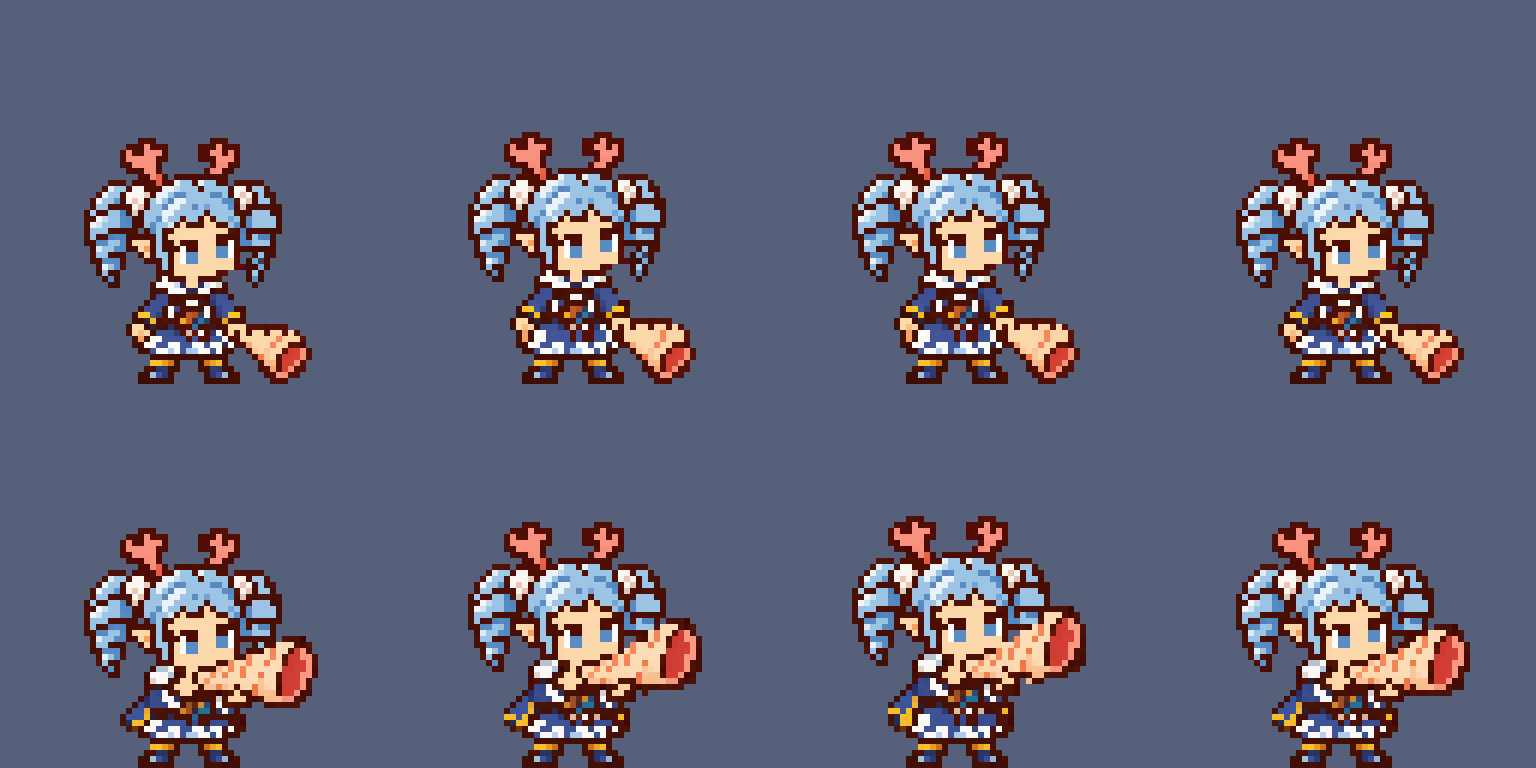
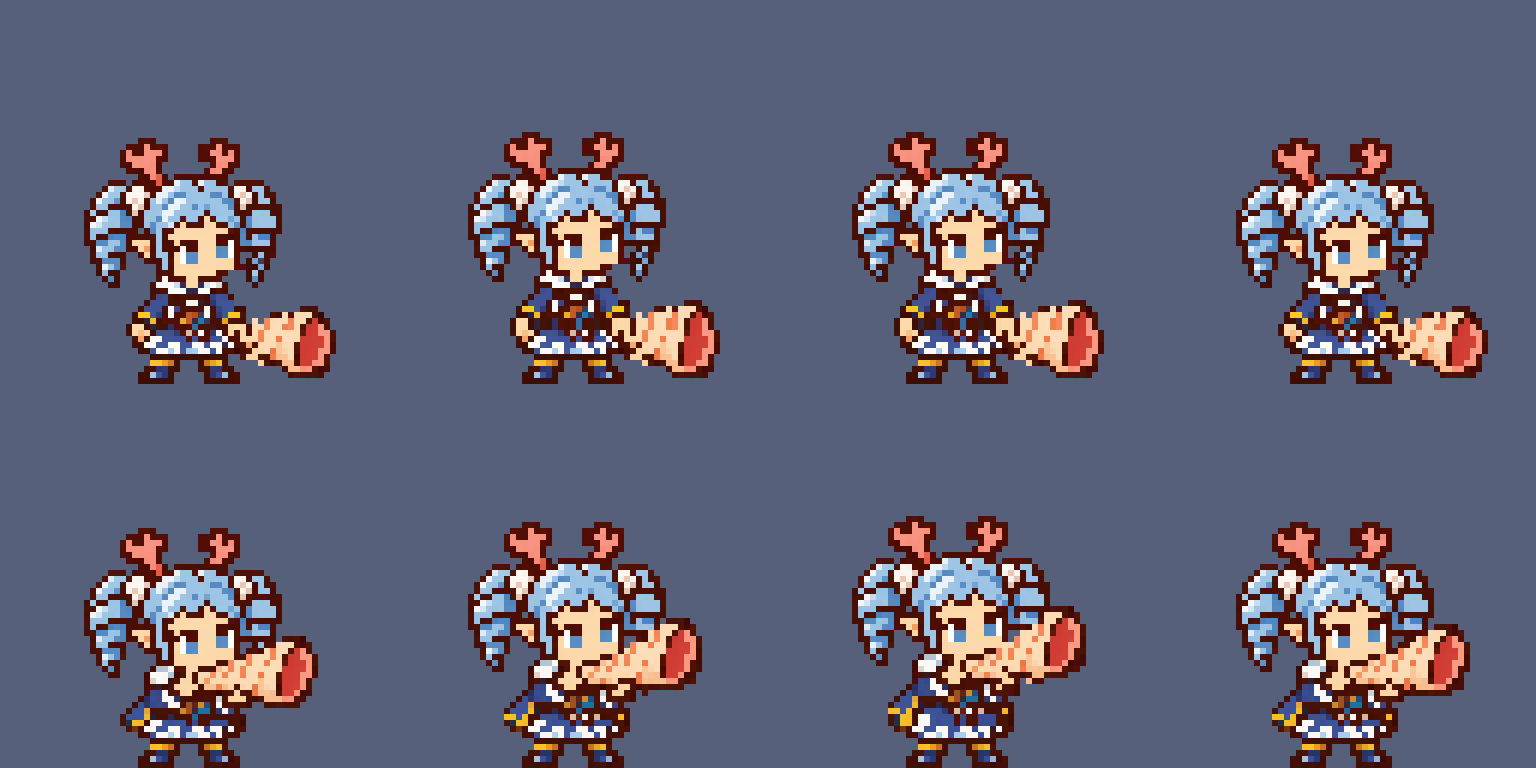
코라: 내린 자세 뿔피리 크기를 공격 자세와 같게

diff --git a/개발일지/2026-11-29/이미지.md b/개발일지/2026-11-29/이미지.md
@@ -11,3 +11,9 @@
 - 의도: "공격하는 동안에만 지금처럼 들고 있는 형태여야지 이동하는 거랑 공격하는 거랑 구분될 것 같아."
 - 결과: 머리·눈은 8칸 같음. 전투 화면 재생은 확인 못 함.
 - 그림: img/codex/coral_bard/frames.png
+
+## [디자인] 코라 뿔피리 크기를 자세끼리 맞춤
+- 한 것: 내린 자세의 소라를 공격 자세 소라의 점으로 바꿔 크기를 같게 함.
+- 의도: "뿔피리 크기가 달라"
+- 결과: 8칸 확대 확인. 전투 화면 재생은 확인 못 함.
+- 그림: img/codex/coral_bard/frames.png
